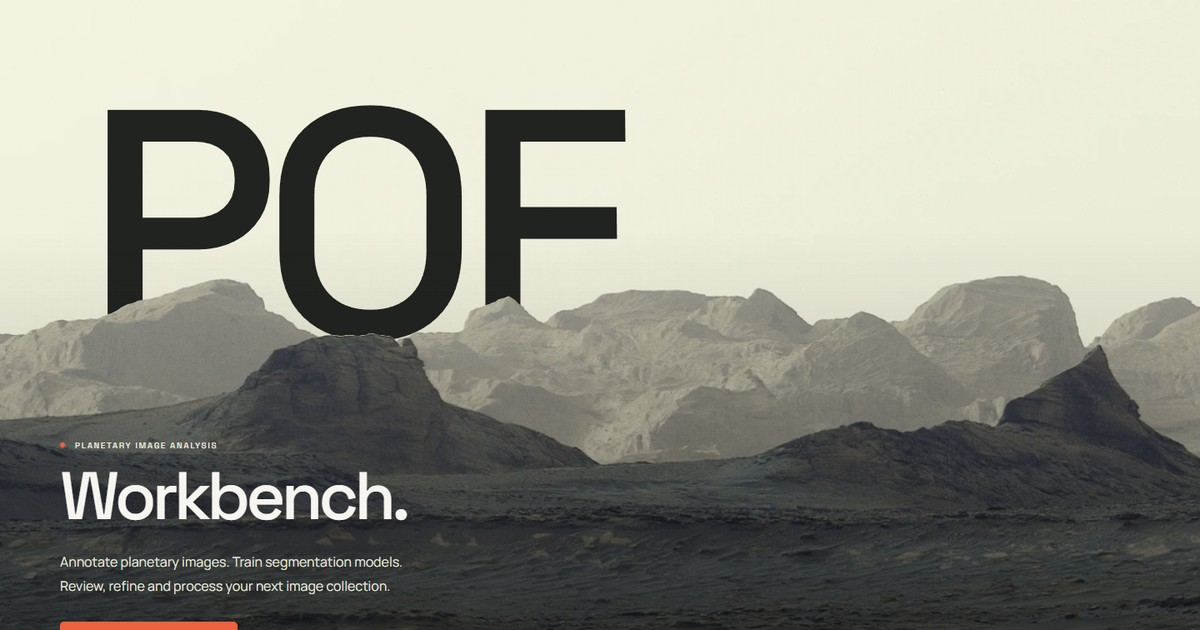
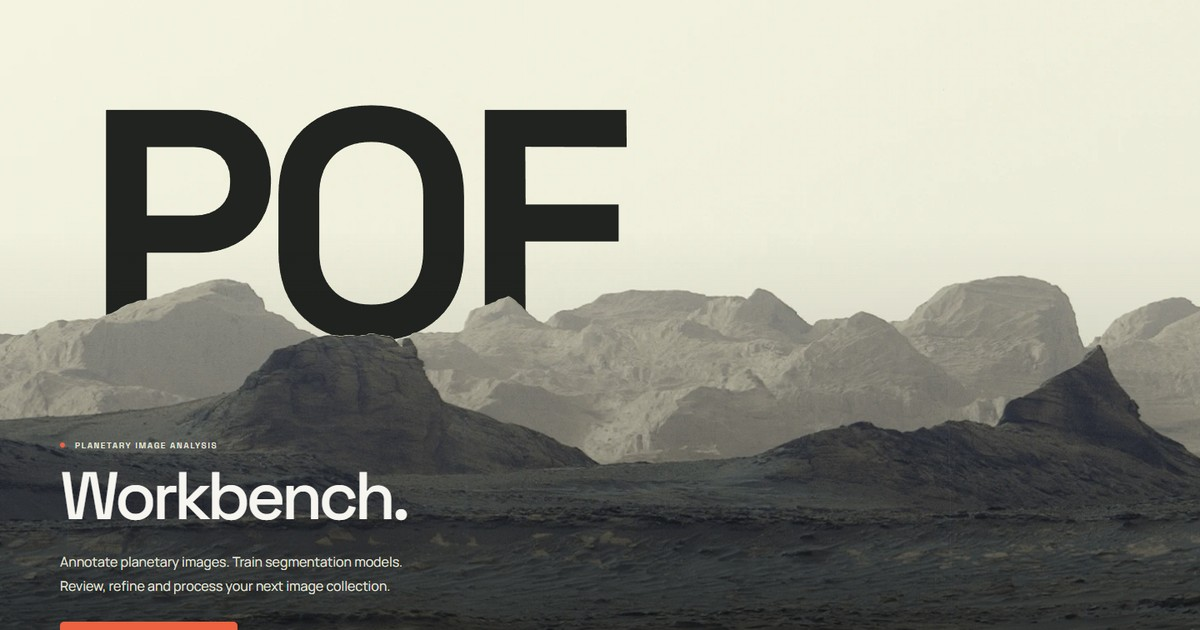
Increase hero POF wordmark weight

diff --git a/styles.css b/styles.css
@@ -21,4 +21,4 @@ html[lang=zh-CN] h1{font-size:clamp(60px,7vw,106px);line-height:1.15;letter-spac
 @media(max-width:1100px){.hero-image img{inset:0;width:100%;height:100%;bottom:auto}.hero-content{padding-top:0}.hero-monogram{top:170px;font-size:31vw}}
 @media(max-width:767px){.nav-download{display:none}.hero{height:94svh;min-height:800px;max-height:1000px}.hero-image img{width:100%;height:100%;inset:0;object-position:58% center}.hero-monogram{top:230px;left:18px;font-size:40vw;letter-spacing:-.1em}.hero-foreground{preserve-aspect-ratio:xMidYMid slice}.hero-content,html[lang=zh-CN] .hero-content{padding:0;bottom:120px;left:24px;right:24px}.hero h1,html[lang=zh-CN] h1{font-size:51px;line-height:1}.hero-content>.eyebrow{font-size:8px}.hero-description,html[lang=zh-CN] .hero-description{font-size:14px;max-width:340px;margin-top:18px}.hero-cta{flex-direction:row;flex-wrap:wrap;justify-content:flex-start;gap:8px 24px;margin-top:24px}.hero-cta .text-link{font-size:10px}.hero-cta .button{min-height:46px;height:46px;font-size:11px;padding-inline:18px;gap:20px}.hero-bottom{bottom:20px;padding-top:16px}.hero-coordinate{font-size:8px}.hero-coordinate span{font-size:7px}.hero-bottom .image-credit{font-size:7px;max-width:150px}.imagery-section{height:650px;min-height:0}.imagery-section .landscape-photo{left:0;top:0;bottom:150px}.imagery-section .landscape-photo img{object-position:center top}.landscape-content h2,html[lang=zh-CN] .landscape-content h2{font-size:38px}.landscape-content>.eyebrow{font-size:8px}.imagery-section:after{background:linear-gradient(0deg,#101110 0%,#0000 65%)}.download-intro h2{font-size:56px}}
 
-.hero-monogram{top:160px;font-weight:500;letter-spacing:-.055em}@media(max-width:1100px){.hero-monogram{top:190px}}@media(max-width:767px){.hero-monogram{top:250px;letter-spacing:-.06em}.hero-image img{object-position:center}}
+.hero-monogram{top:160px;font-weight:650;letter-spacing:-.055em}@media(max-width:1100px){.hero-monogram{top:190px}}@media(max-width:767px){.hero-monogram{top:250px;letter-spacing:-.06em}.hero-image img{object-position:center}}
